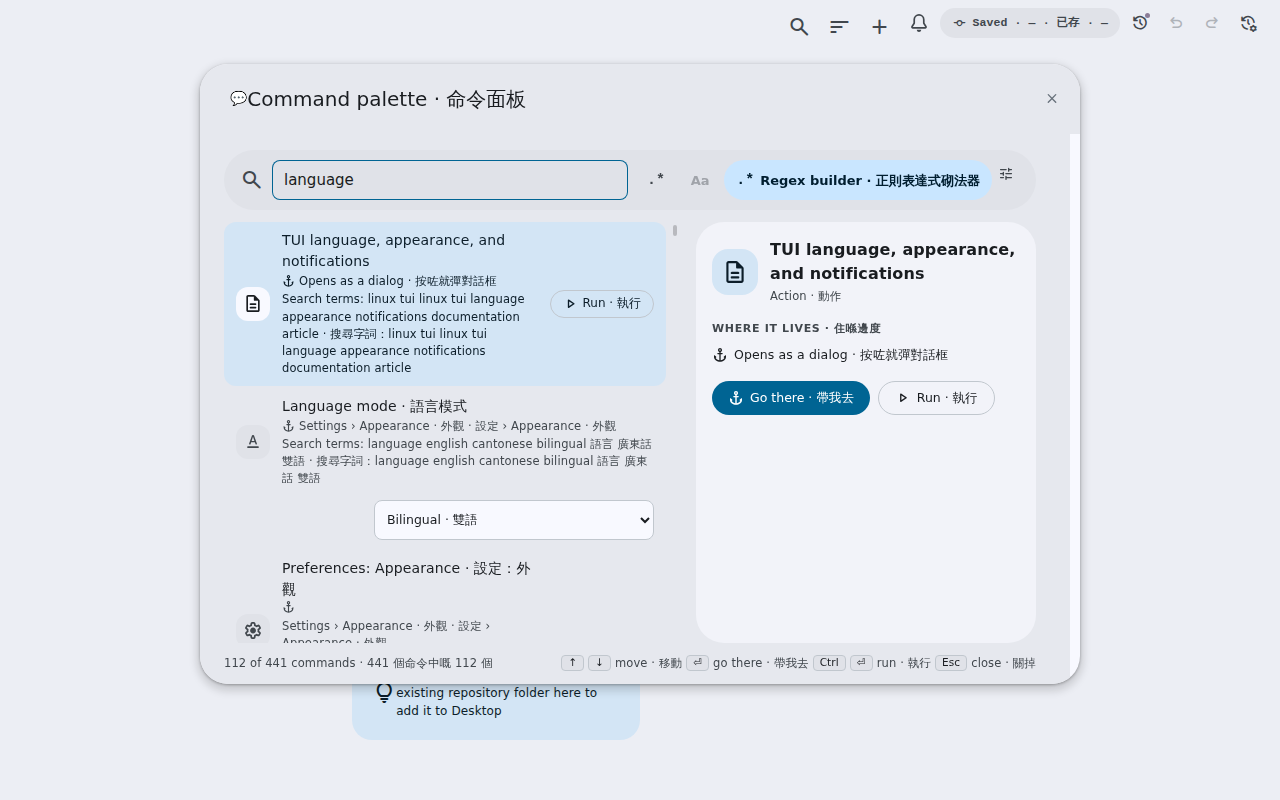
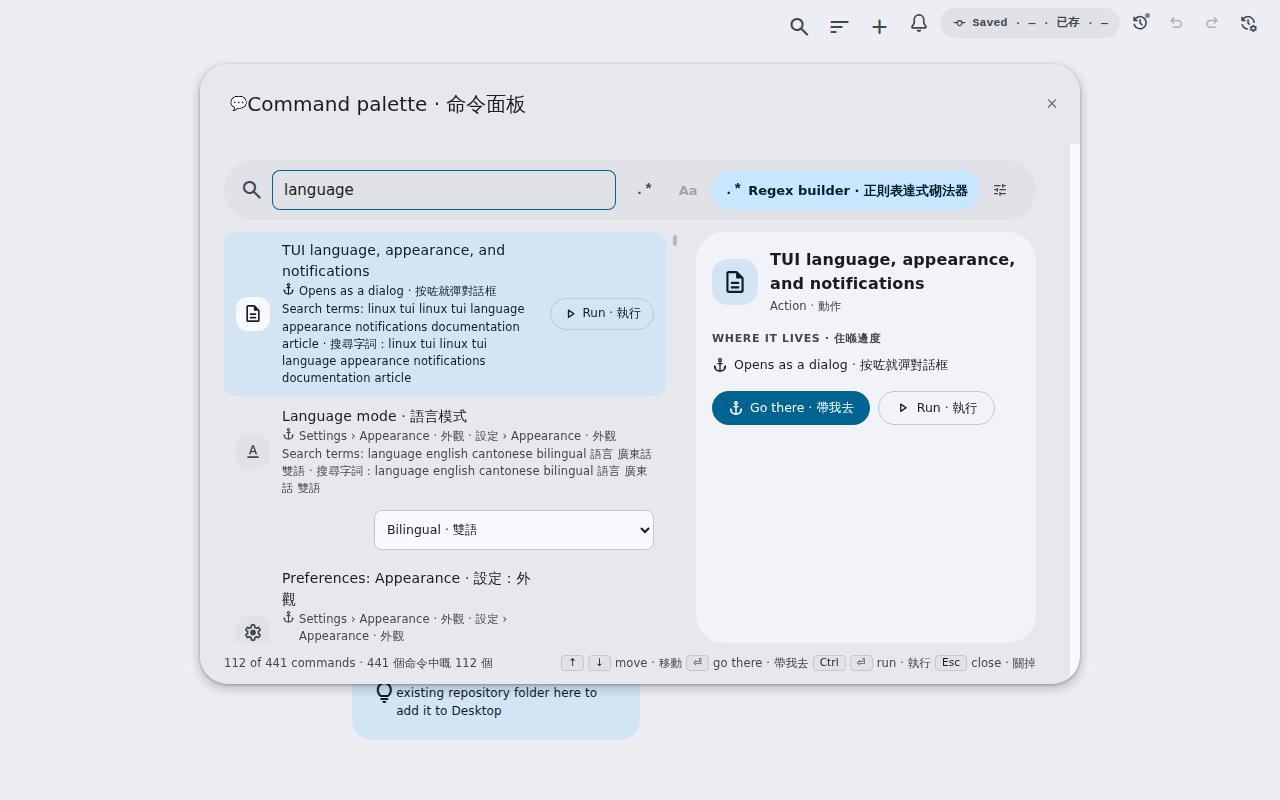
Refresh the palette captures and the handoff for the polish round
The three after-captures are retaken from the build that carries the polish
round, their SHA-256 digests updated in the handoff, and the entry gains the
location-icon and hit-target paragraph with the final four-pass figures:
palette chrome off-viewport 0, error-level hit targets on the open palette 0,
silent truncation 0 in English and the one known bilingual select.

更新命令面板嘅三張事後截圖同 handoff 入面嘅 SHA-256，補返圖示位置同點擊目標嗰段，
連最後四次審核嘅數字。

Claude-Session: https://claude.ai/code/session_01YZD8LKR7rL67kfoLEZL7Ge

diff --git a/HANDOFF.md b/HANDOFF.md
@@ -48,14 +48,22 @@ Found and fixed, measured before and after:
   280px; a row whose text column would drop under 200px wraps its control
   beneath the text. A `title` disclosure was not an option: the repository's
   a11y lint forbids it outside an iframe.
+- The location line's anchor icon sat alone on a line in bilingual rows once
+  the line was allowed to wrap as a whole; it stays beside its text now. The
+  audit holds every control to a 40px pointer target: the appearance toggle
+  (28px), the apply button (30px) and the palette's dialog close button
+  (16px, the one error-level target on an open palette) are 40px, scoped to
+  the palette so the frozen dialog stylesheet stays untouched; the Run pill
+  keeps at least 32px of height and remains an advisory warning by design.
 
-Final audit on source commit of this entry, four passes (English and bilingual,
-1280×800 and 700×640): palette chrome off-viewport 0 in every pass (was 3
-controls); silent truncation 0 in English and 1 in bilingual, the branch-sort
-select whose longest label "By when they were last changed · 按最近改過"
-still exceeds the closed box by about 26px (its options read in full when
-opened; recorded, not chased). The audit's remaining off-viewport items are
-controls in rows scrolled below the fold of the results list.
+Final audit on the build of this entry's source, four passes (English and
+bilingual, 1280×800 and 700×640): palette chrome off-viewport 0 in every pass
+(was 3 controls); error-level hit targets on the open palette 0 (was 1, the
+close button); silent truncation 0 in English and 1 in bilingual, the
+branch-sort select whose longest label "By when they were last changed ·
+按最近改過" still exceeds the closed box by about 26px (its options read in
+full when opened; recorded, not chased). The audit's remaining off-viewport
+items are controls in rows scrolled below the fold of the results list.
 
 `command-palette-size-contract-test.ts` passes 8/9; the ninth, the
 `modal={true}` assertion, was already red on `main` and is unrelated. Focused
@@ -68,9 +76,9 @@ the hidden X display, scale 1, light theme, no repository open:
 | Capture | Size | SHA-256 |
 | --- | --- | --- |
[7 lines of base64/hex data omitted]
 
 Excluded follow-up, recorded rather than adopted: the audit's hit-target
 findings (34×34 tab-strip buttons, the 28×28 appearance toggle, the 16×16 dialog

diff --git a/CLOSEOUT_PROMPT.md b/CLOSEOUT_PROMPT.md
@@ -85,6 +85,10 @@ Evidence landed
   Retained under docs/assets/screenshots/command-palette-*-20261004.png with
   SHA-256 digests in the HANDOFF entry; the README's Command palette cell
   shows the bilingual 1280 capture.
+- Polish round proven in the same way: the location line keeps its anchor
+  icon beside its text; the appearance toggle, apply button and the palette's
+  dialog close button are 40px targets (error-level hit targets on the open
+  palette 0, was 1); the Run pill is 32px tall (advisory warning, by design).
 - HANDOFF.md carries the dated entry, including the Build and run follow-up
   (its panel needs an open repository, which the fixture cannot seed on
   Linux; four single-line truncations in _material-build-run.scss are named
